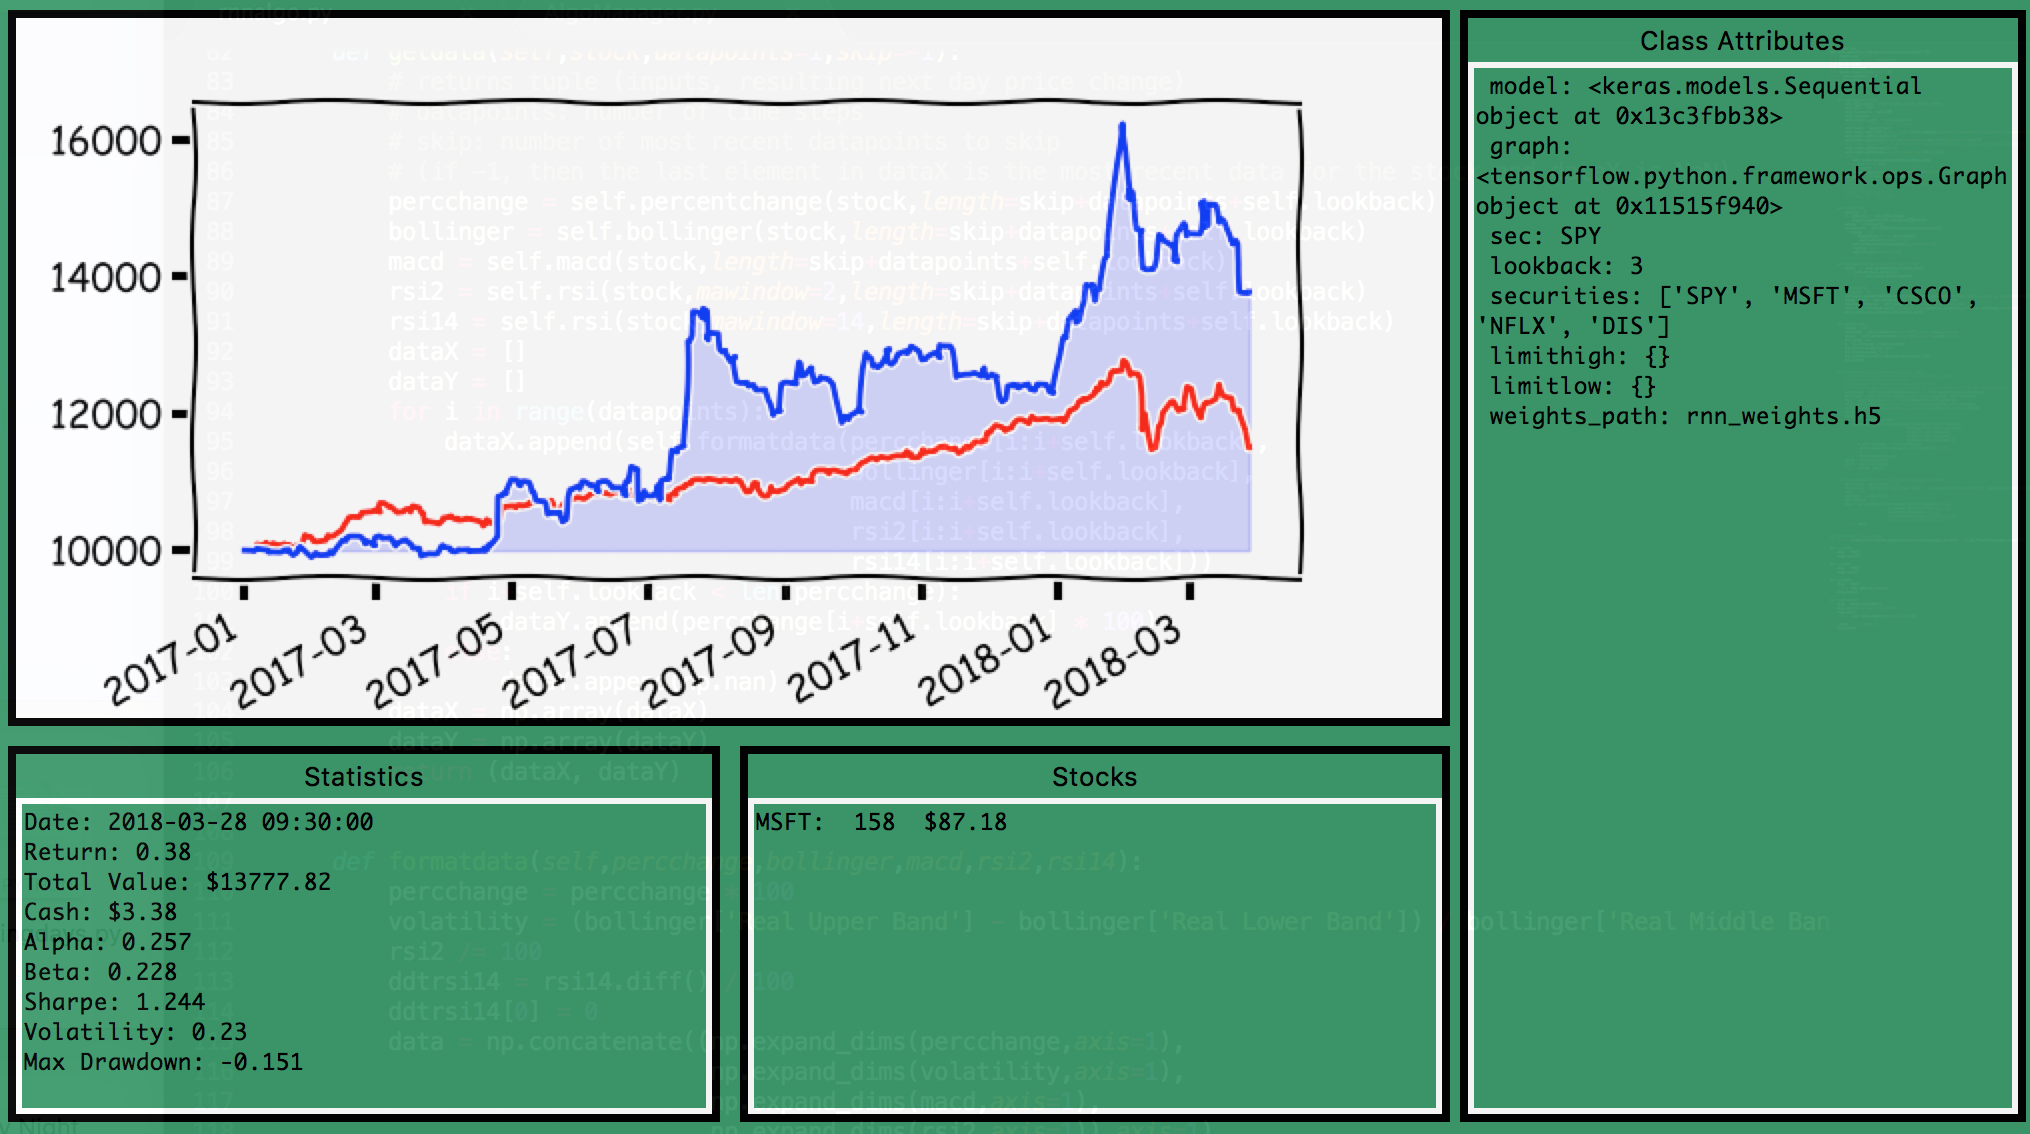
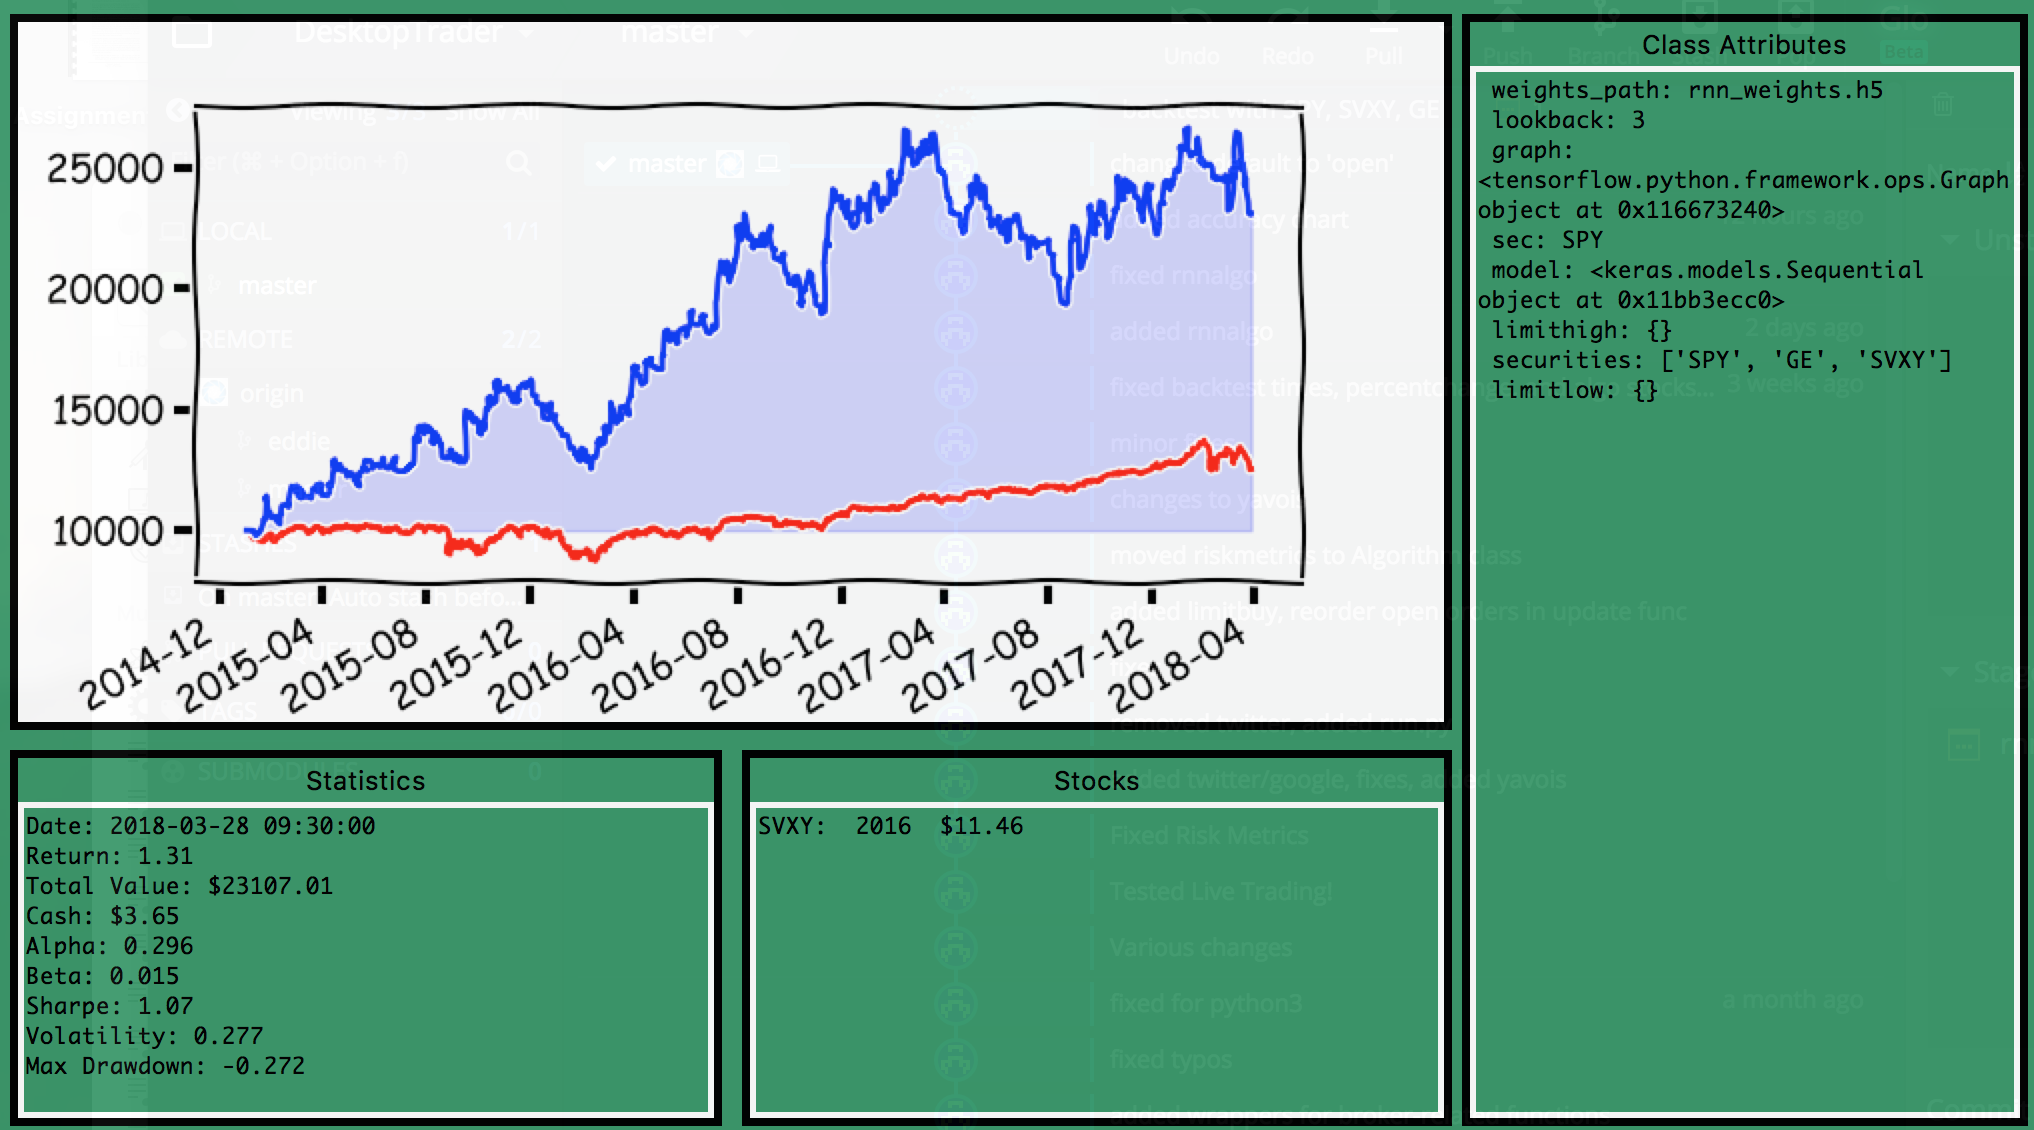
backtest with SPY, SVXY, GE

Changed region(s): [[0.0, 0.0, 1.0, 1.0], [0.931, 0.2478, 0.9621, 0.2788]]

diff --git a/rnnalgo.py b/rnnalgo.py
@@ -13,7 +13,7 @@ from datetime import datetime
 class RNN(Algorithm):
 
 	def initialize(self):
-		self.securities = ["GE","GPRO"]
+		self.securities = ["SPY", "GE", "SVXY"]
 		self.sec = 'SPY'
 		self.benchmark = self.sec
 		self.lookback = 3
@@ -190,5 +190,5 @@ def debug():
 	import code; code.interact(local=locals())
 
 if __name__ == '__main__':
-	test()
+	backtest()
 		
